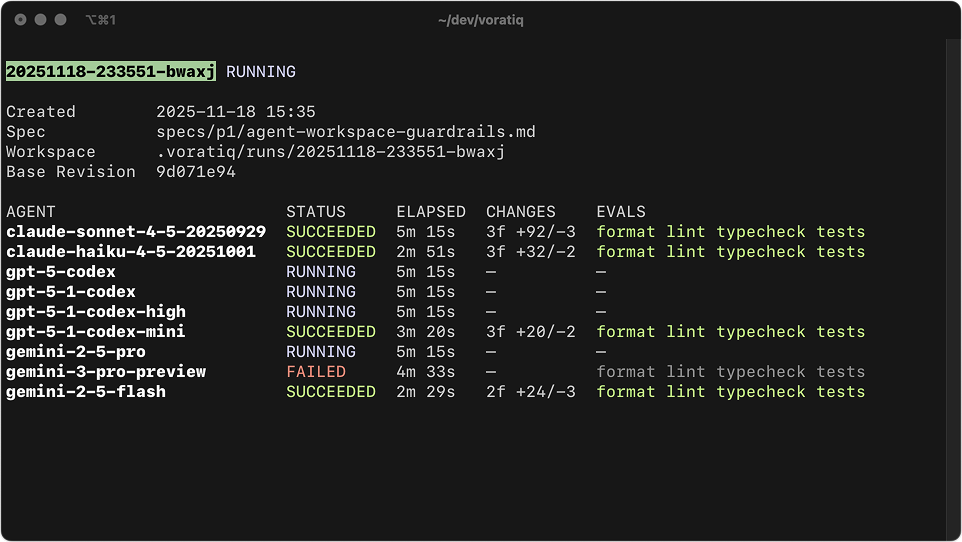
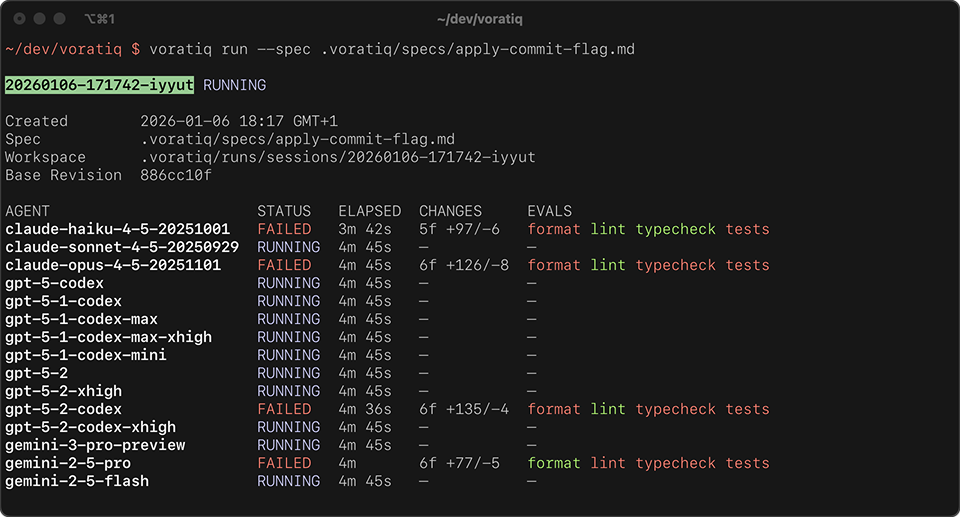
Refresh our run demo to reflect latest design

diff --git a/README.md b/README.md
@@ -2,7 +2,7 @@
 
 Run agents in parallel, compare results, and apply the best solution.
 
-![`voratiq run --spec specs/p1/agent-workspace-guardrails.md`](https://raw.githubusercontent.com/voratiq/voratiq/main/assets/run-demo.png)
+![`voratiq run --spec .voratiq/specs/apply-commit-flag.md`](https://raw.githubusercontent.com/voratiq/voratiq/main/assets/run-demo.png)
 
 ## Installation
 
